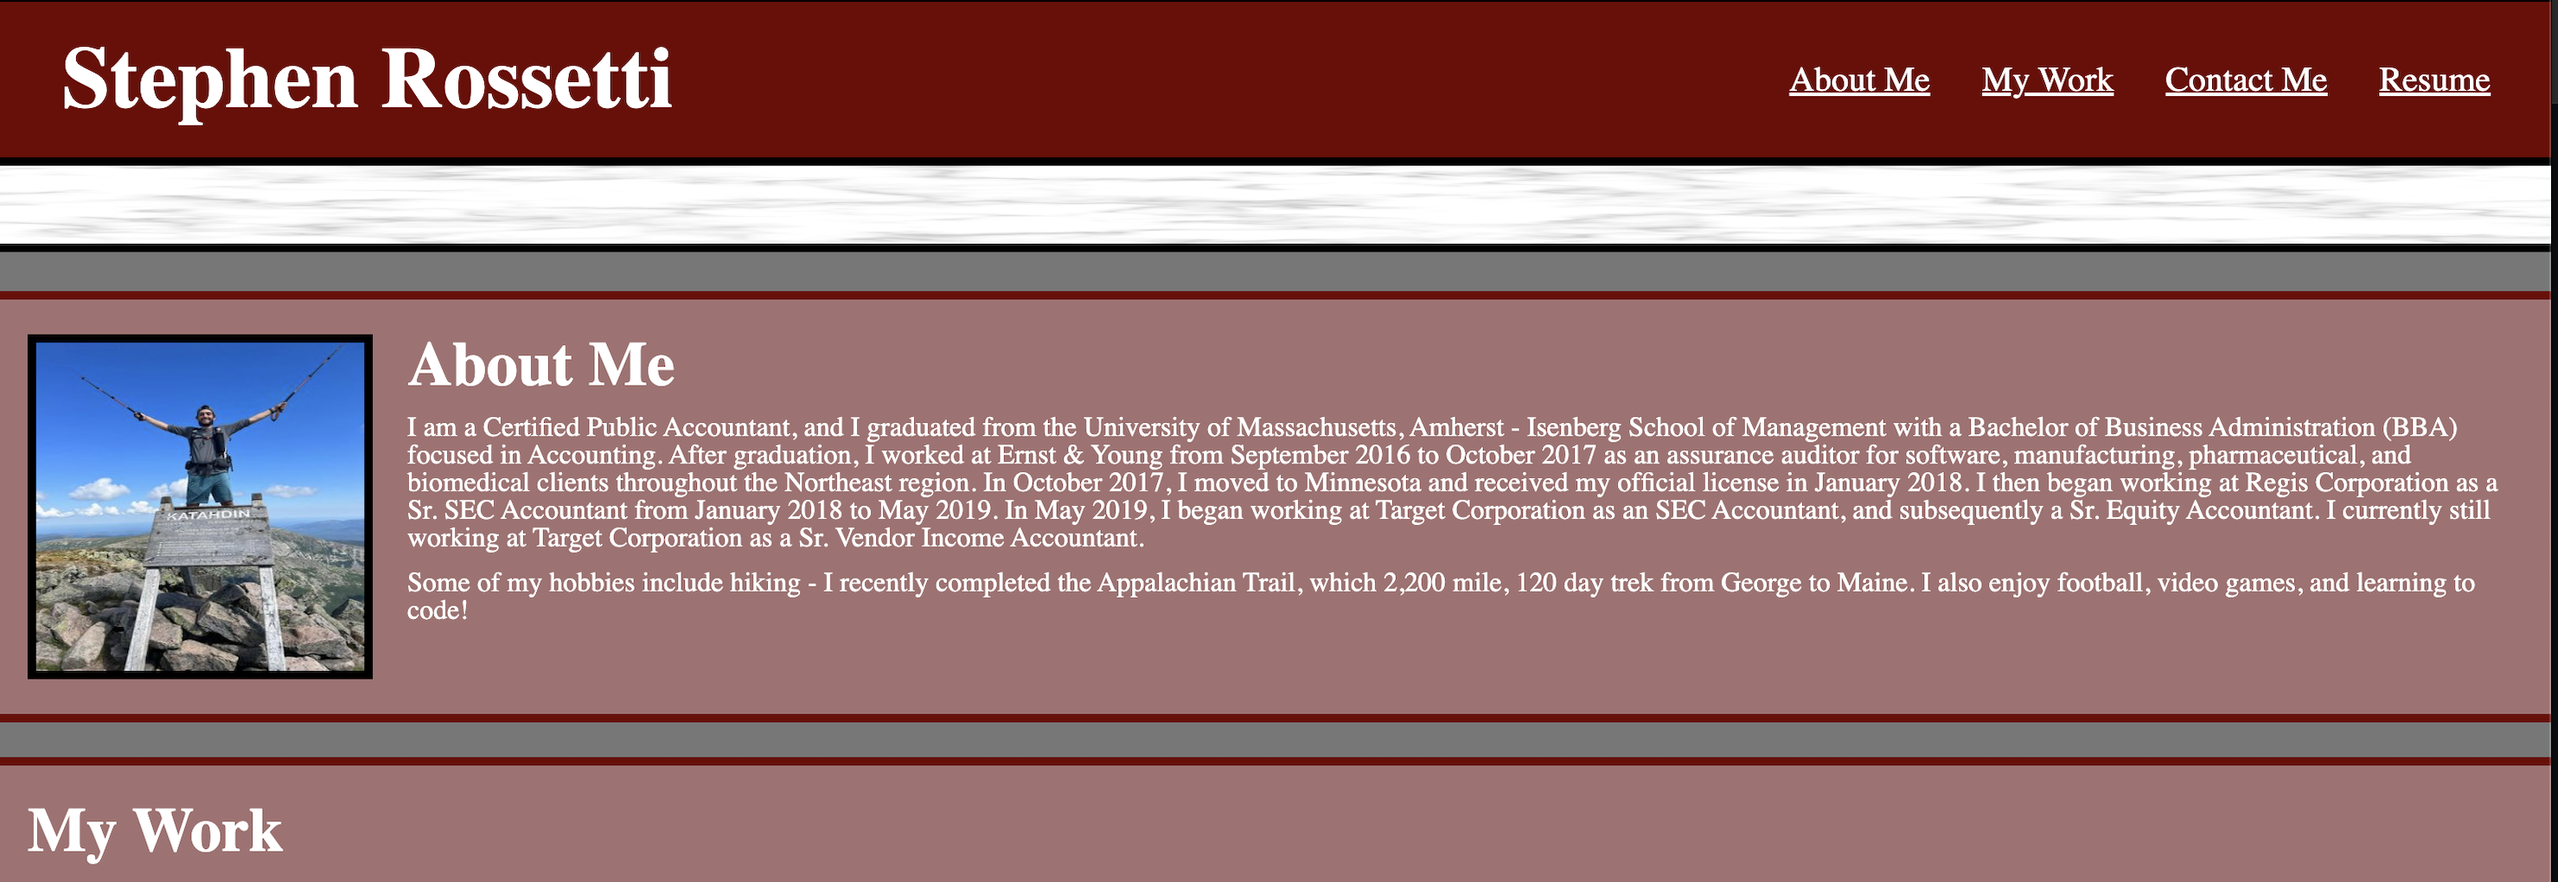
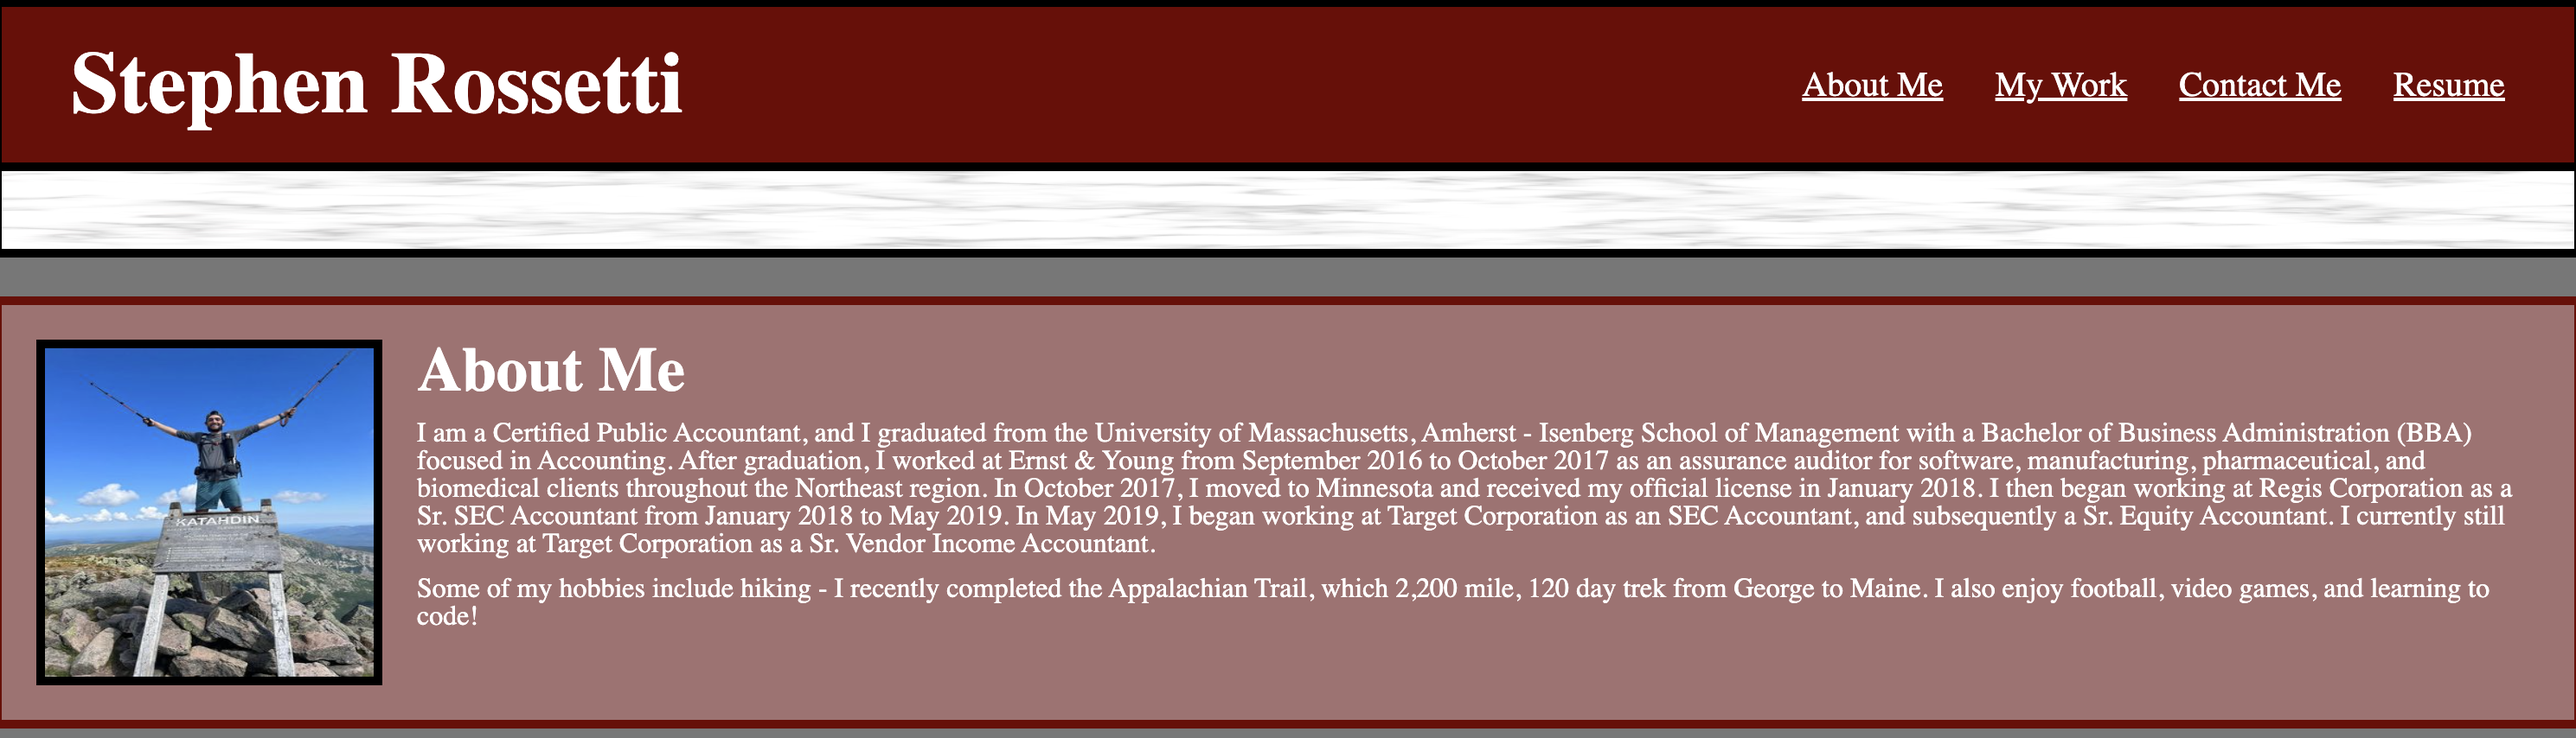
Update mockup images

diff --git a/README.md b/README.md
@@ -11,6 +11,7 @@ Create new repository and start code from scratch.
 ## Mock-Up
 
 ![alt text](https://github.com/stephenrossetti/Module-2-Challenge/blob/main/assets/Images/MockUpTop.png)
+![alt text](https://github.com/stephenrossetti/Module-2-Challenge/blob/main/assets/Images/MockupMiddle.png)
 ![alt text](https://github.com/stephenrossetti/Module-2-Challenge/blob/main/assets/Images/MockUpBottom.png)
 
 ## Usage
